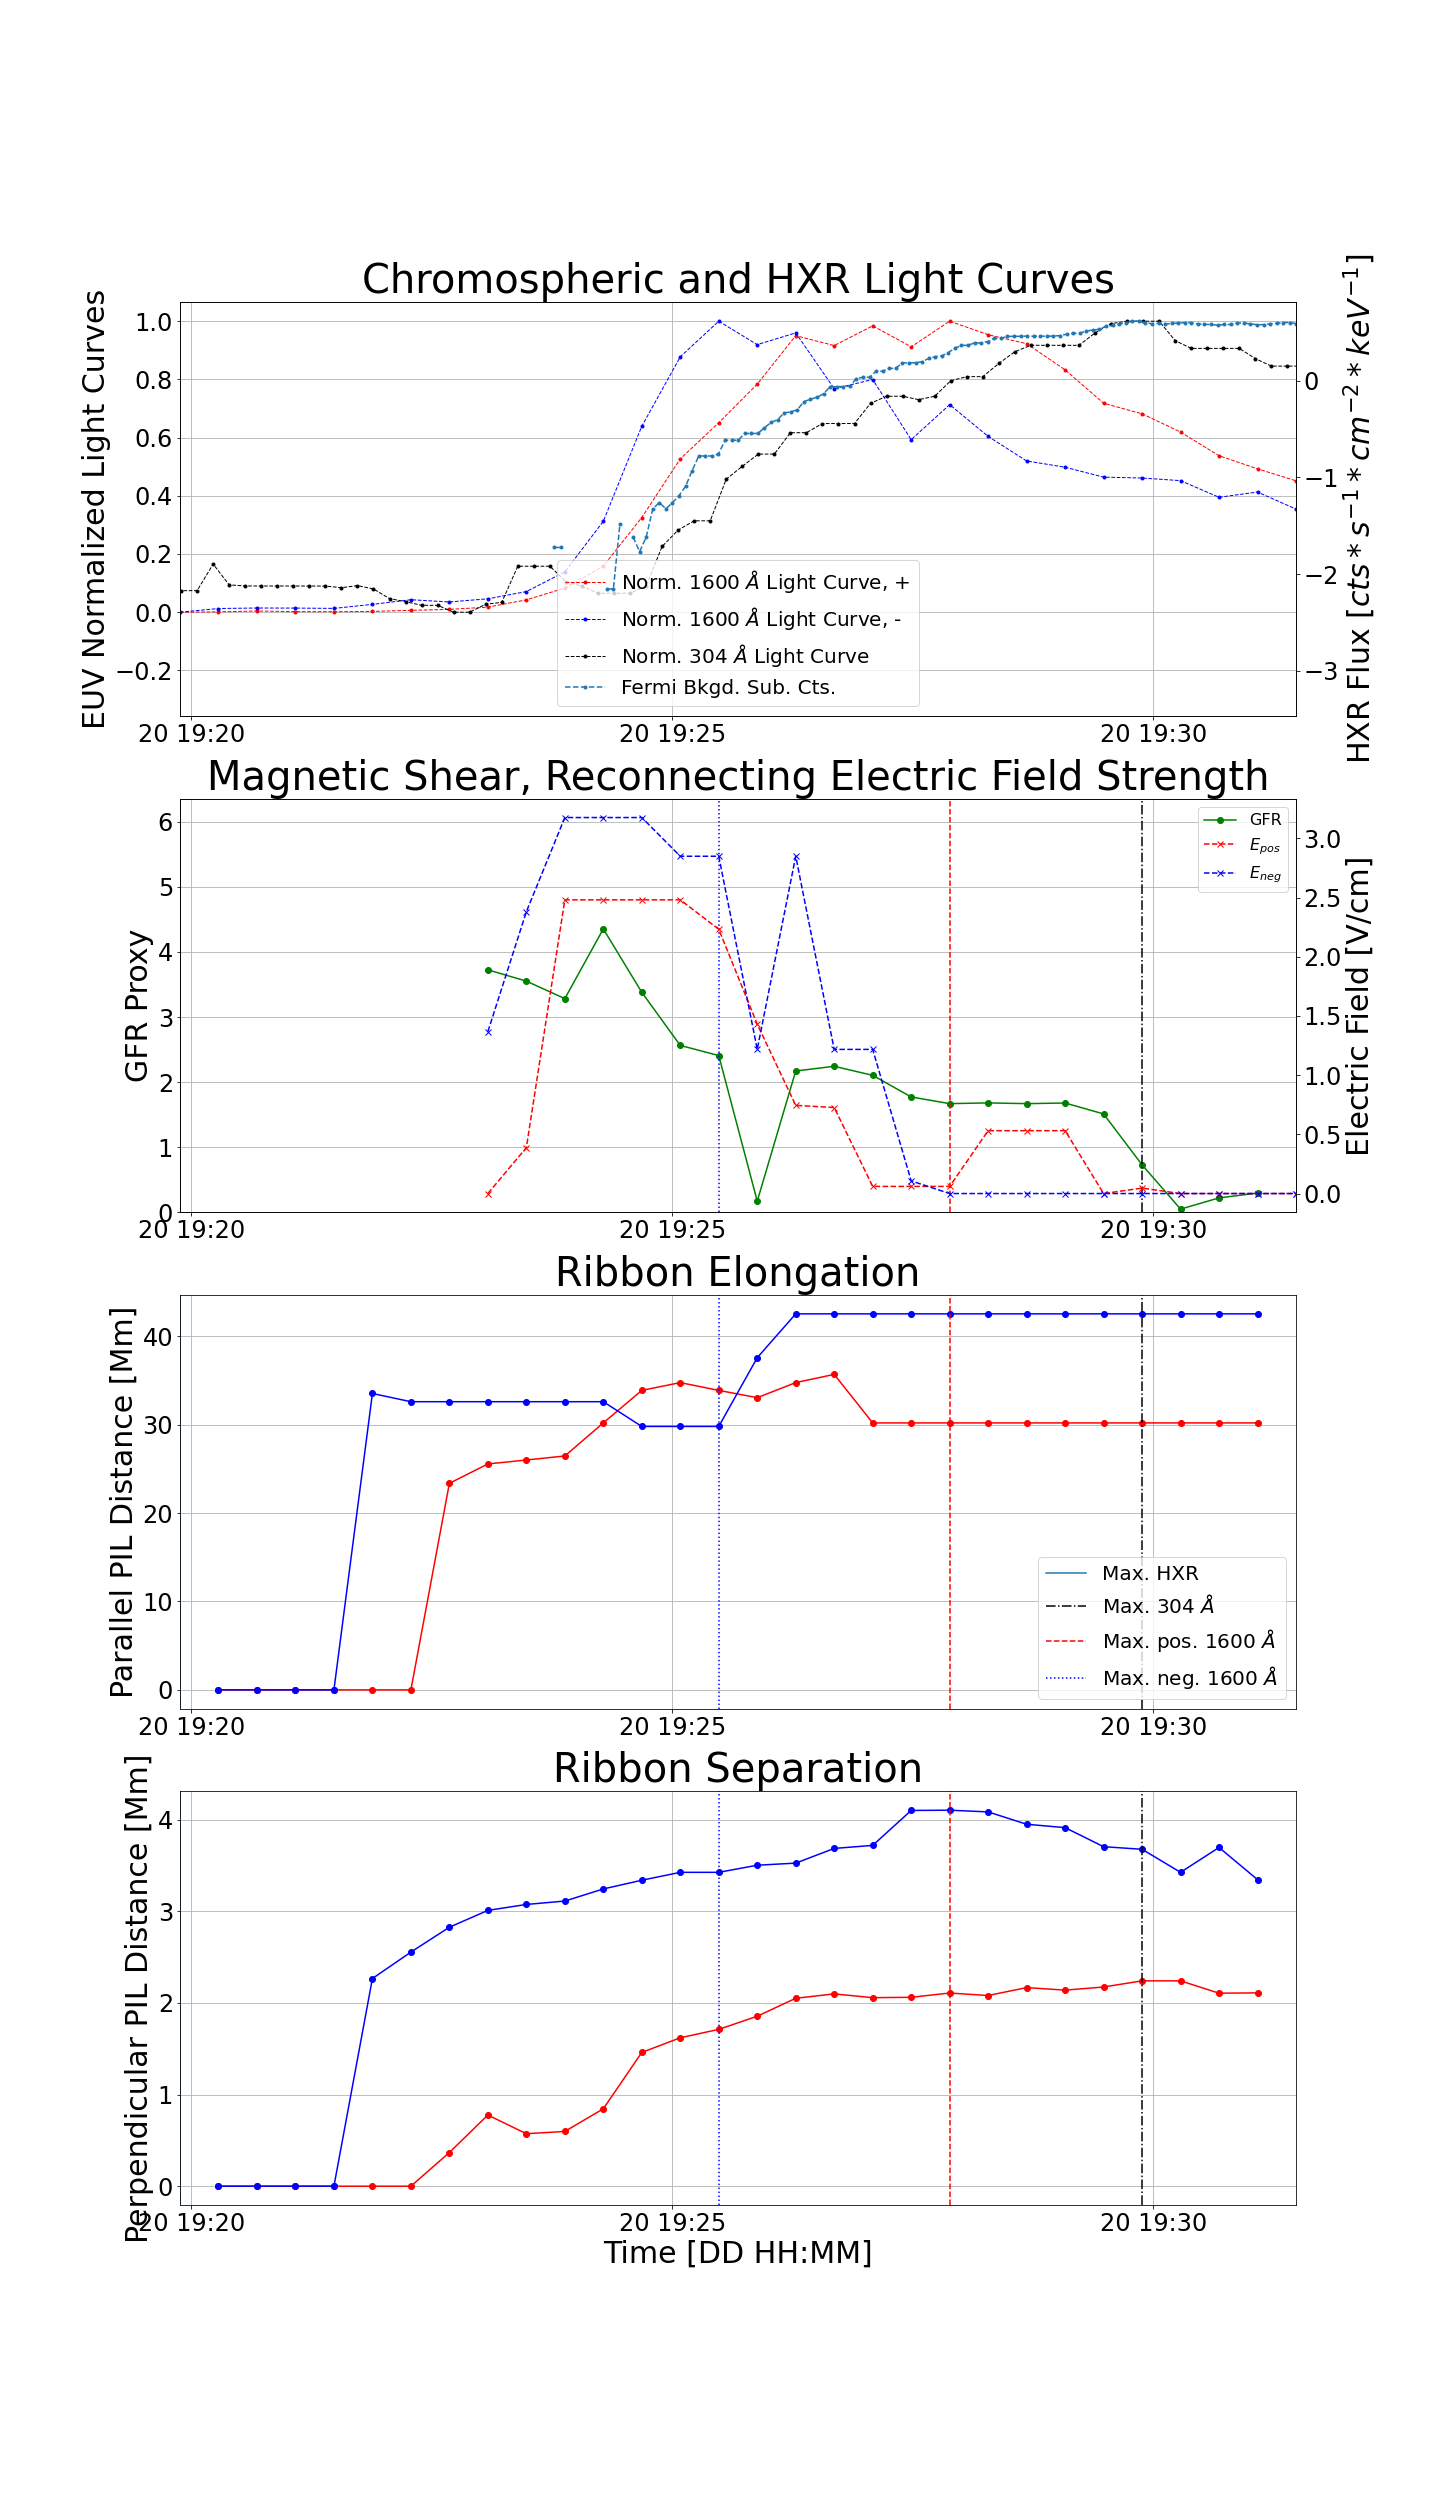
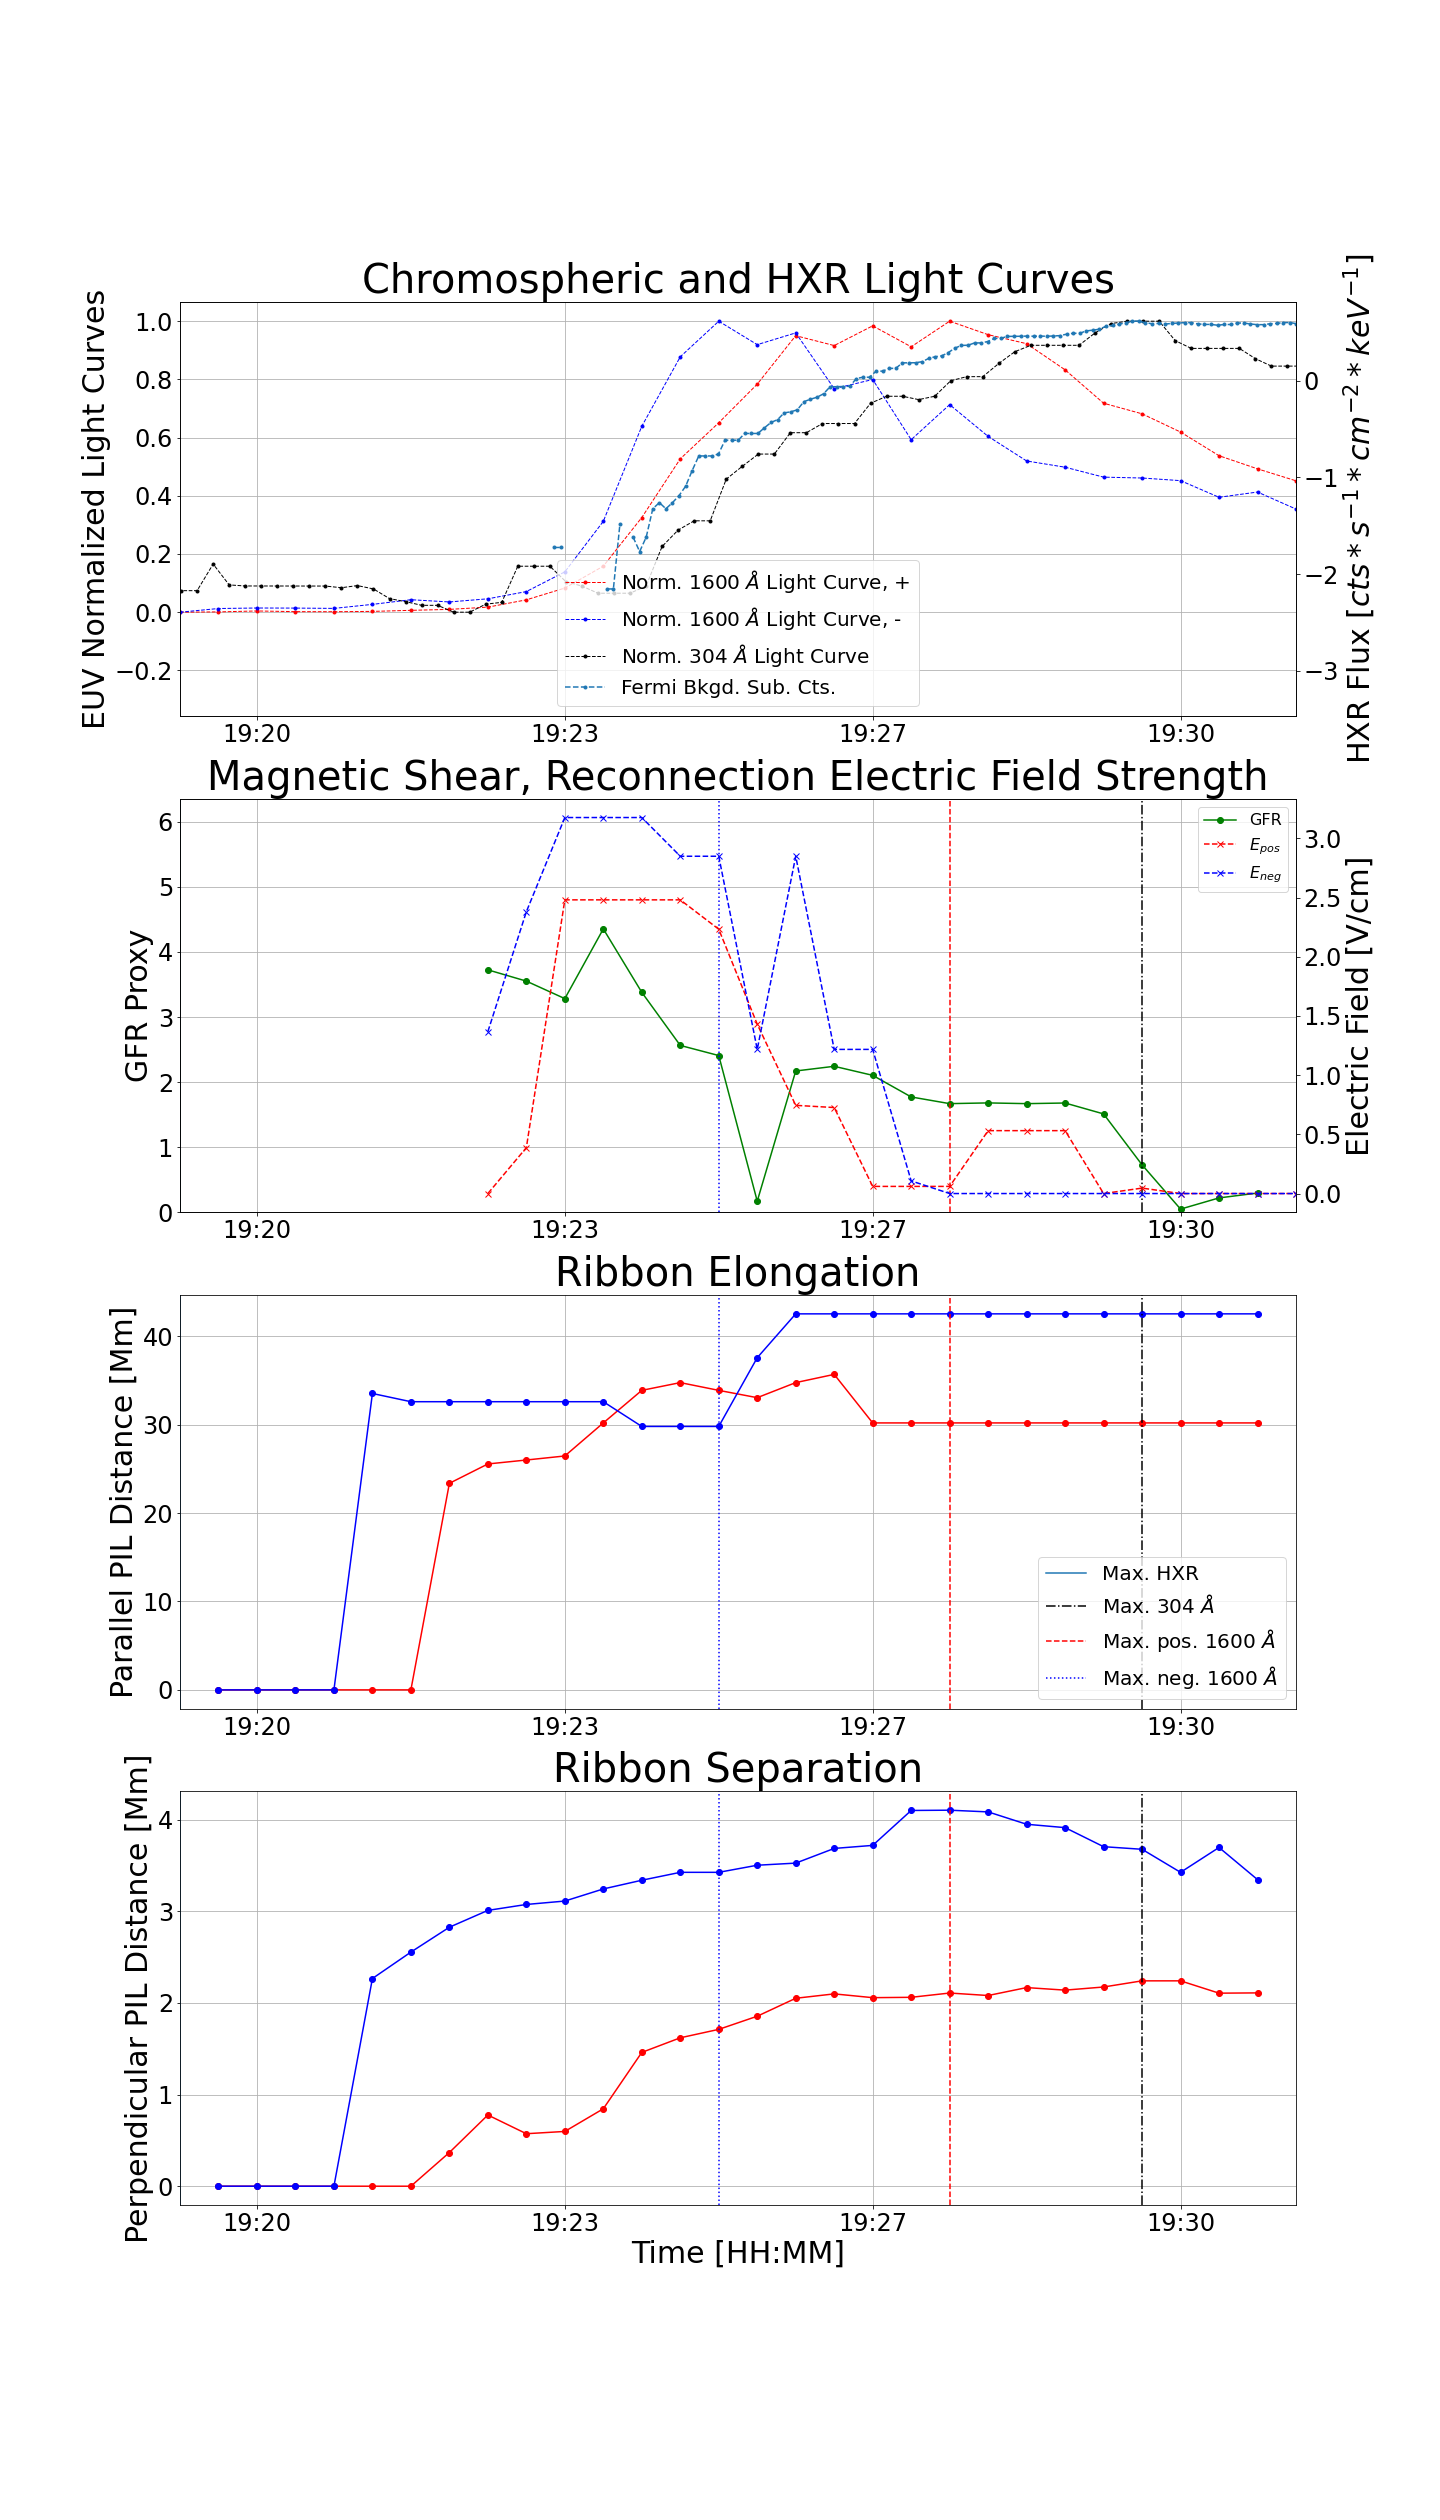
high2 script edit for axes

diff --git a/high2_process.py b/high2_process.py
@@ -320,7 +320,7 @@ fl_funcs.plt_fourpanel(times, gfr, gfr, flnum, dt1600, time304,
                   s304, e304, pos1600, neg1600, dn1600, indstrt_elon, 
                   indstrt_sep, fermitimes, raw_hxr_sum, cspec_hxr_sum,
                   gfr_trans, E_pos, E_neg, time_E, low_hxr=5000, high_hxr=7000,  period_flag = 0, 
-                  flag = 1)
+                  flag = 1, tick_space = 2)
 
 
 file='high2shear'
